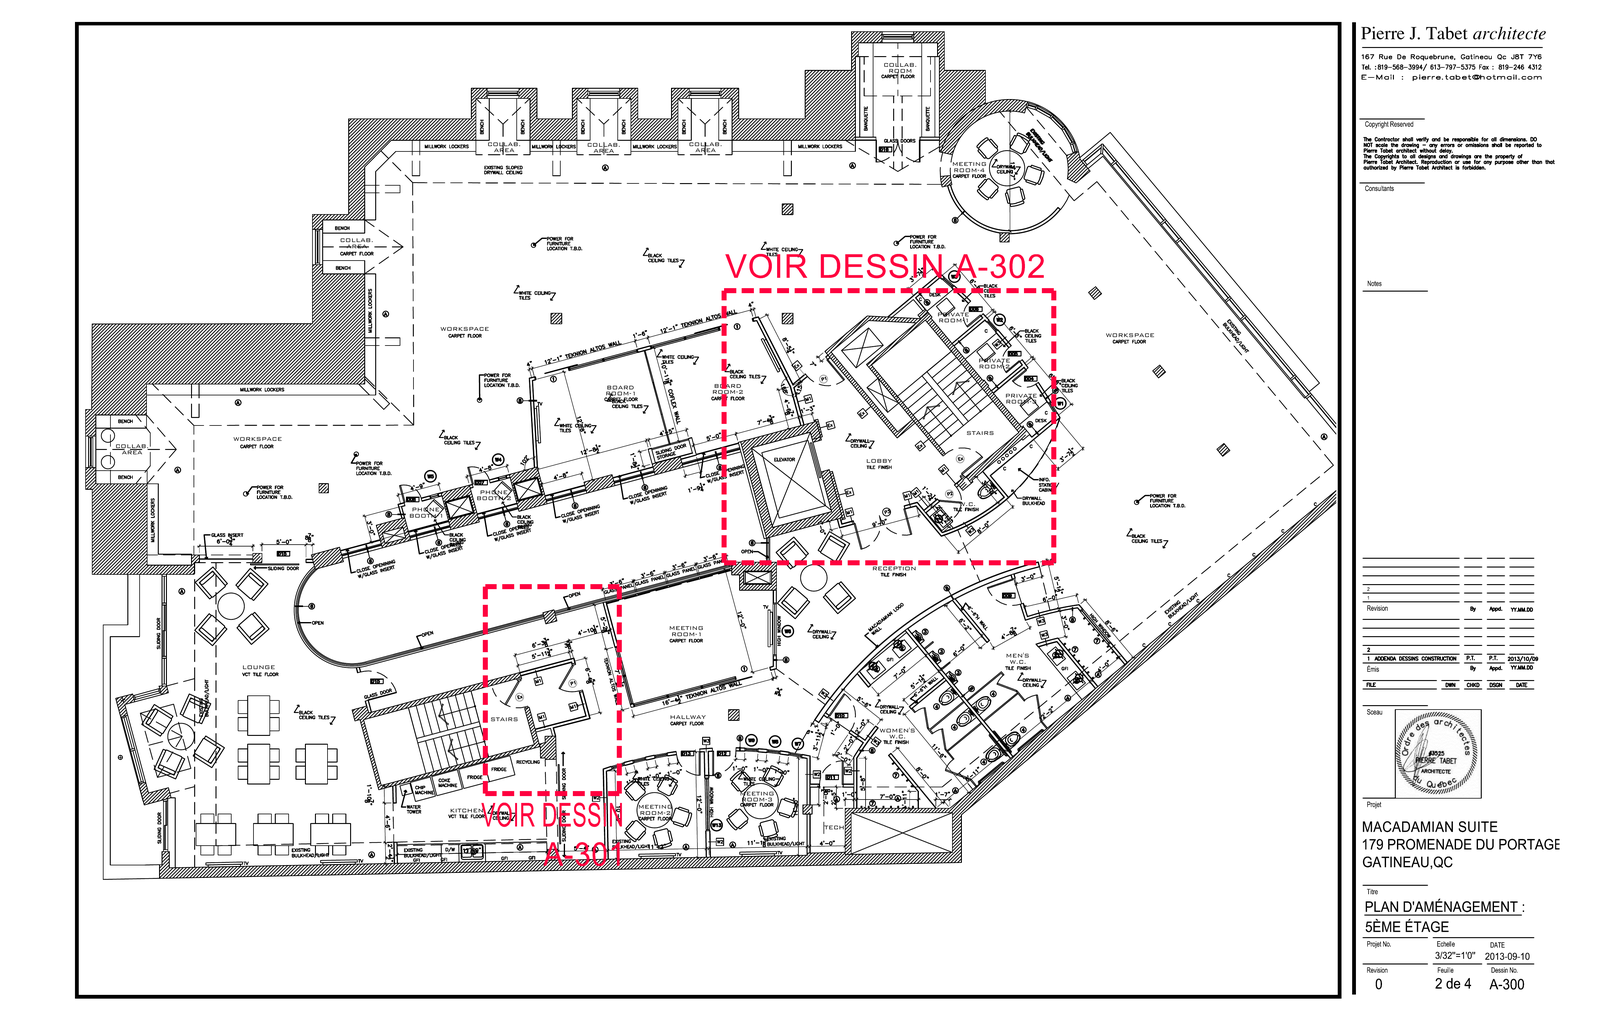
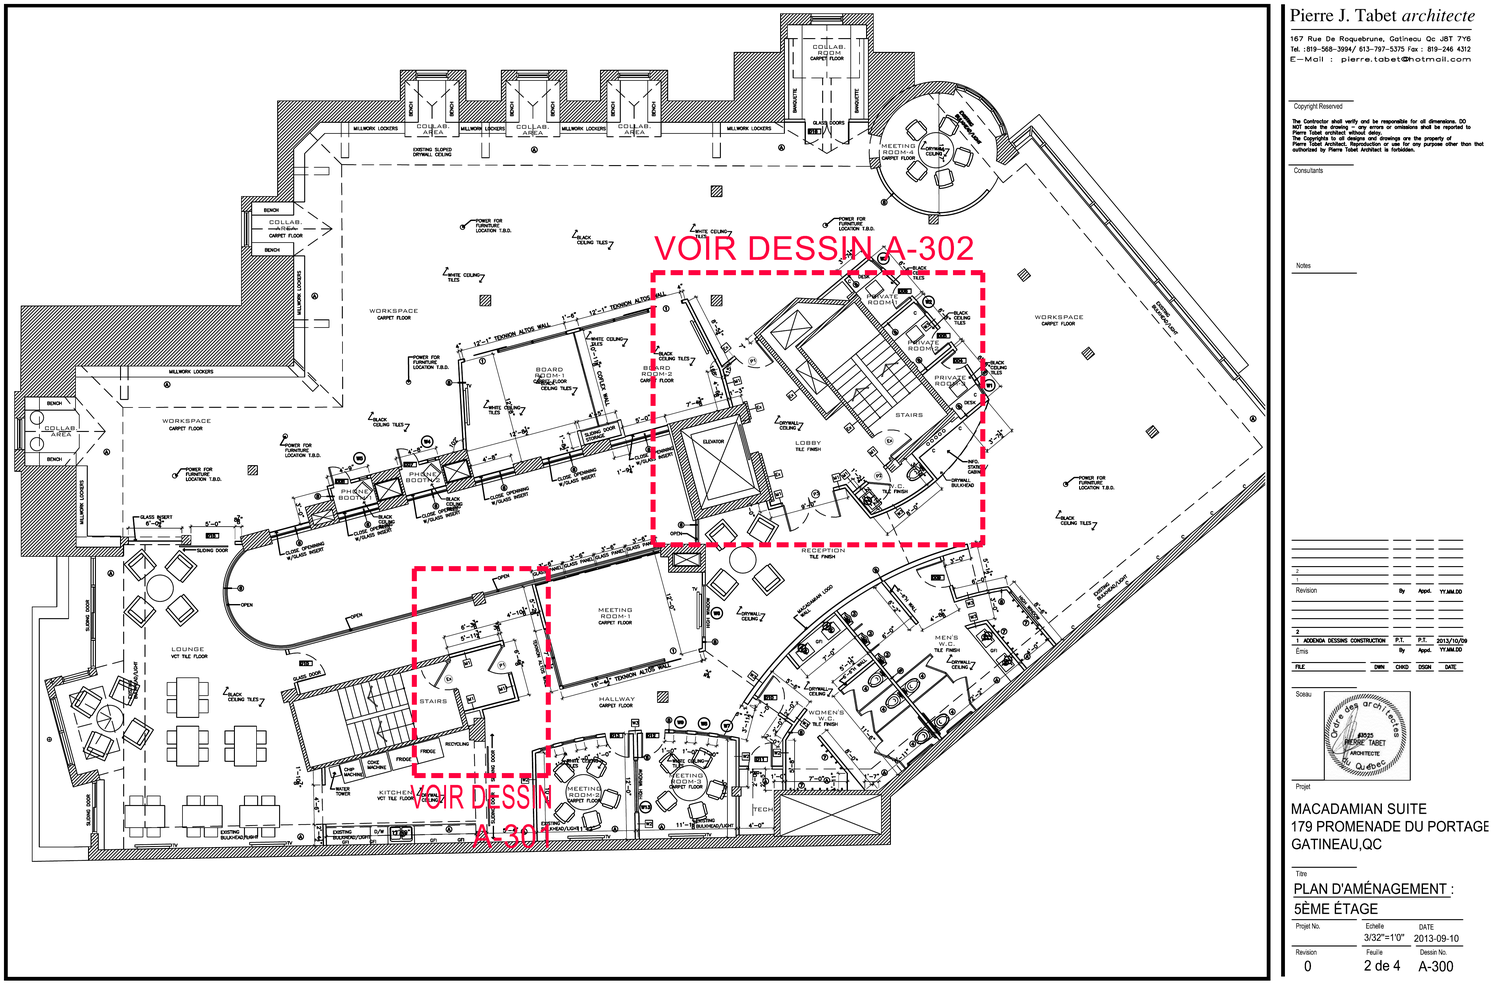
Mobile audit fixes + floor plan crops
Floor plans: aggressive content-density crop on all 8 PNGs (1-14% saved per file). WebP companions regenerated from cropped PNGs. Total floor-plan asset size reduced.

Mobile CSS (179 page): added 768px media block to tighten floor-plan frame (smaller margin, no border), reduce floor-card padding, normalize floor-tour video grid (gap, h3 size, caption size, line-height), tighten section padding to 3rem, enforce 44px min touch targets on buttons.

Joseph's reports: 'white space around floor plans' and 'titles/descriptions misaligned in mobile mode' — both addressed by reducing the visual frame around floor plans and standardizing the new floor-tours section typography on small viewports.

diff --git a/179-promenade-du-portage.html b/179-promenade-du-portage.html
@@ -861,6 +861,45 @@
         }
 
         /* ─── Responsive ─── */
+        /* Mobile tightening — added 2026-04-25 */
+        @media (max-width: 768px) {
+            /* Tighten floor-plan visual frame on small screens */
+            .floor-plan {
+                margin-top: 1rem;
+                border: none;
+                border-radius: 4px;
+            }
+            .floor-plan img {
+                background: var(--dark-card);
+            }
+            .floor-card {
+                padding: 1.25rem;
+            }
+            .floor-content > p {
+                font-size: 0.95rem;
+            }
+            /* Floor-tours section grid + alignment */
+            #floor-tours .container > div[style*="grid"] {
+                gap: 1.5rem !important;
+            }
+            #floor-tours h3 {
+                font-size: 1.1rem !important;
+                margin-bottom: 0.5rem !important;
+            }
+            #floor-tours p[style*="0.875rem"] {
+                font-size: 0.825rem !important;
+                line-height: 1.45;
+            }
+            /* Section padding tighter on phones */
+            section {
+                padding: 3rem 0 !important;
+            }
+            /* Touch targets ≥ 44px */
+            .btn, .cta, button, a.btn {
+                min-height: 44px;
+            }
+        }
+
         @media (max-width: 900px) {
             nav {
                 padding: 0.8rem 1.5rem;
